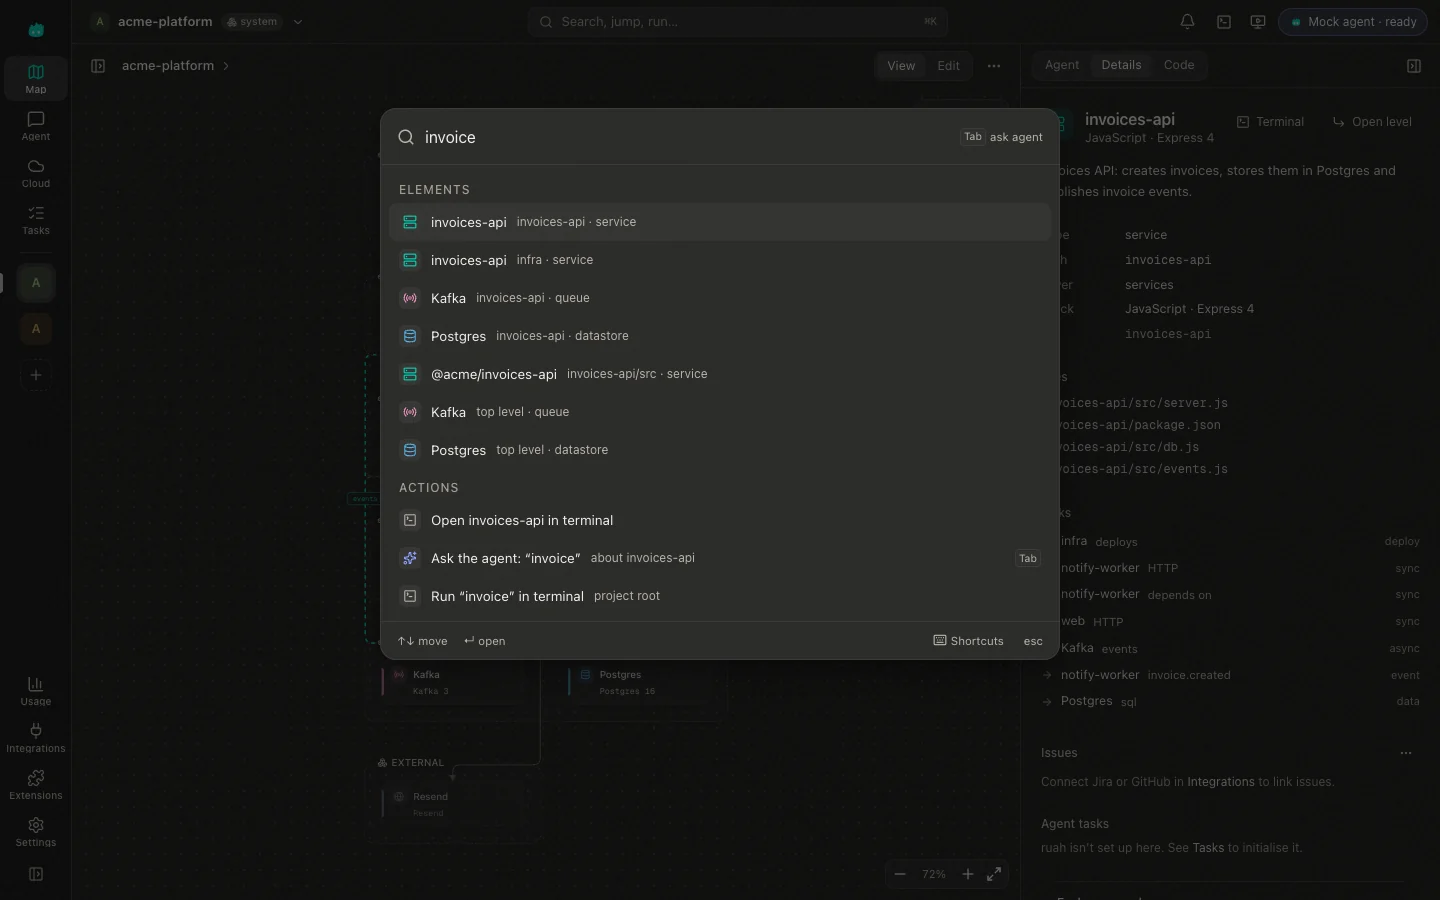
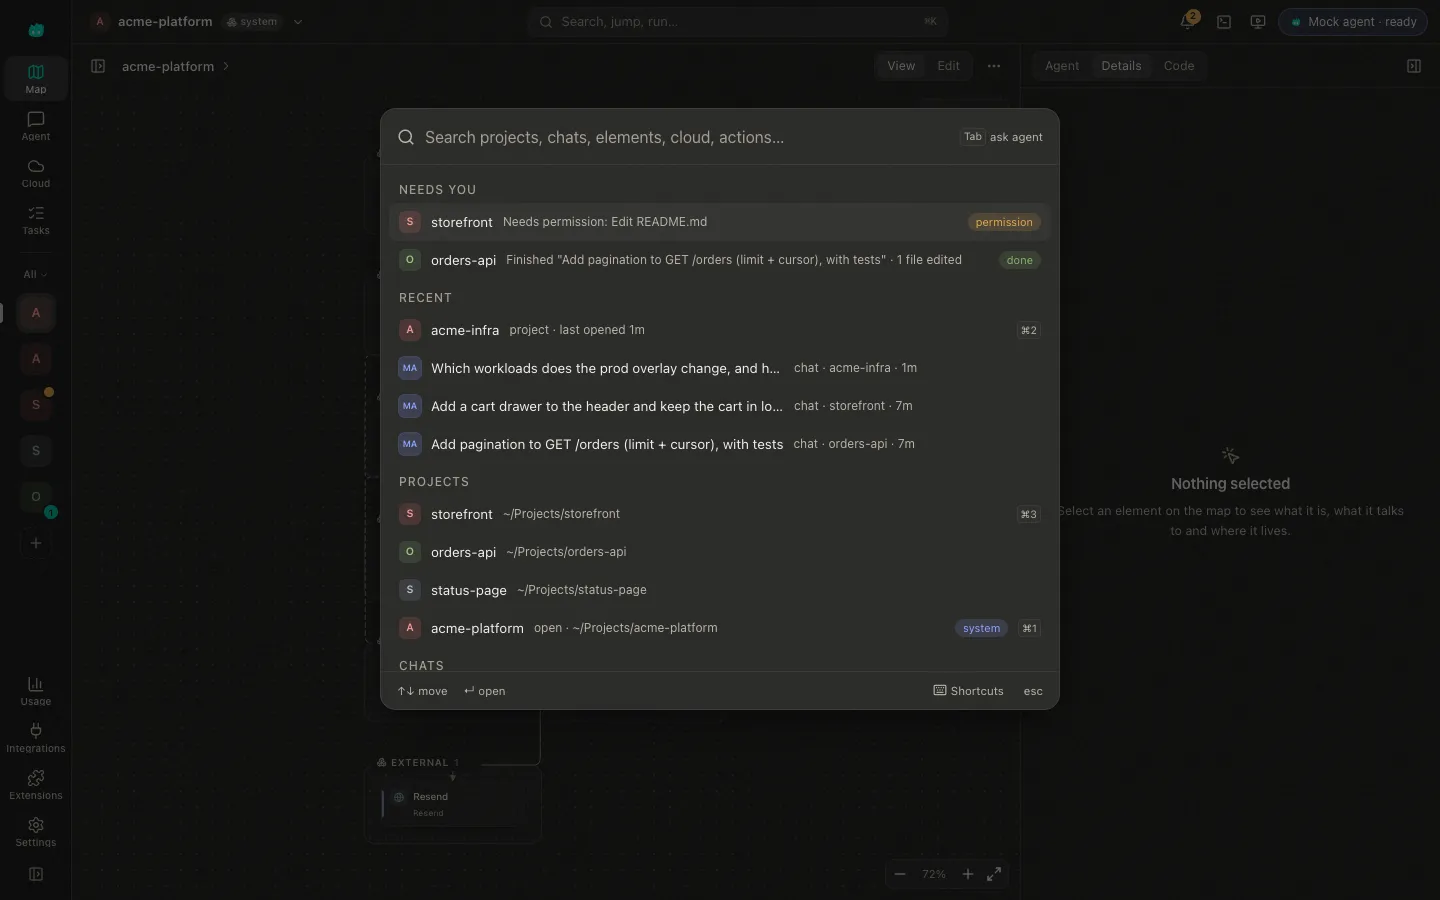
docs(readme): fresh screenshots; claims checked against the code
Six new screenshots (dark, Teal + Indigo, 1440x900 WebP, 38-63 KB):
Home, the map with IaC lanes in the Standard layout, the Advanced
layout, the launcher, usage and limits, and the new project wizard.
They come from a scratch daemon (`serve --mock`) on copies of
test/fixtures/system and test/fixtures/scan/infra-mono plus three
projects made with `ruah app new`, with a scratch HOME and RUAH_HOME
and a fresh headless Chrome profile; the capture refused any frame
whose text or attributes held a local path. The Usage page shows
made-up sample numbers (seeded usage log, a fixed limits report), and
the README says so. The old map, agent and infra-light images go.

Text: Home, the new project wizard and `ruah app new`, pin order and
groups in the features; the Cursor login is opt-in; the preview pick
stays on this Mac unless saved to the repo; Classic teal palette;
Standard / Advanced layouts. CLI table gains `new`, `usage settings`,
`system remove|rename`, `design palettes|tokens|check|css` and the
preview flags; `serve` names where its viewer comes from, and the
build-from-source line runs from the checkout. Configuration is split
into data, settings (`usage.readAppLogins`), environment (adds
RUAH_CLAUDE_USAGE_PROBE, RUAH_EXTENSIONS, RUAH_SUGGEST_TIMEOUT_MS) and
the desktop app, plus a table of what Ruah writes into a repository
(CONTRACTS §21.3). Privacy lists git/gh on request and cursor.com only
after the opt-in.

diff --git a/README.md b/README.md
@@ -12,7 +12,7 @@ that element as context, edit your code, and update the map while you watch.
 It is a local-first macOS app. The daemon runs next to your code with your
 own agent and cloud logins; there is no Ruah server, account or telemetry.
 
-![The map of a multi-repo system, with an element's details](docs/screenshots/map.webp)
+![The map in the Standard layout: services, infrastructure as code and data in lanes; the selected Kubernetes overlay shows what it runs and deploys](docs/screenshots/map-iac.webp)
 
 ## Features
 
@@ -28,37 +28,57 @@ own agent and cloud logins; there is no Ruah server, account or telemetry.
   OpenCode. Switch agent or model instantly (warm agents, no restart), attach
   images, approve edits and commands from permission cards. Agents edit the map
   itself through the `ruah_*` MCP tools.
+- **Home: every project at a glance.** One card per project, sorted by what
+  needs you: a permission to answer (right from the card), a failed turn, cloud
+  trouble, a crashed preview, a turn that finished while you were away,
+  uncommitted or unpushed work. Filter by pinned projects or by group.
+- **New projects in a minute.** `⇧⌘N` (or `ruah app new`) creates a project
+  from an offline template (empty, Vite + React, Node API, static site, pnpm
+  monorepo, Terraform + GitHub Actions) with its map, `git init` and a first
+  commit; on request also a GitHub repository (`gh repo create`, private by
+  default), a place in a multi-repo system and a first prompt for the agent.
+  Nothing existing is ever overwritten.
 - **Several projects at once.** Agents keep working when you switch projects;
   an activity feed, unread badges and notifications tell you when one finishes
-  or needs you. `⌘K` jumps to any project, chat, element, cloud resource or
-  action; `ruah app resume` shows where you left off.
+  or needs you. Pinned projects keep the order you give them (`⌘1`–`⌘9`), and
+  groups (tags) keep clients apart from the day job. `⌘K` jumps to any
+  project, chat, element, cloud resource or action; `ruah app resume` shows
+  where you left off.
 - **Cloud, live.** DigitalOcean, AWS, Google Cloud, Azure, Cloudflare, Vercel,
   Supabase, Kubernetes, Railway, Fly.io, Netlify and Hetzner, read-only through
   their own CLIs: what runs where, which of it belongs to this project and why,
   and whether it is healthy.
 - **Terminal and live preview.** A real terminal on every page; Ruah finds how
   to run the project's dev server, shows the page next to the agent with hot
-  reload, and offers "Ask agent to fix" when it crashes.
+  reload, and offers "Ask agent to fix" when it crashes. The command you pick
+  is remembered on your Mac; it goes into the repo only if you save it there.
 - **Extensions.** Skills, MCP servers, Kiro powers, plugins and rules: add once,
   turn on per agent after seeing what they run; secrets stay in the Keychain.
 - **Issues and tasks.** Jira and GitHub issues on elements; ruah orchestration
-  tasks and workflows.
+  tasks and workflows (in a git repository).
 - **Usage and limits.** Tokens and estimated cost per agent over time, and each
   agent's plan limits (Claude, Cursor, Kiro, Grok, OpenCode) before you hit them.
+  Cursor's plan usage needs the Cursor app's saved login, which Ruah reads only
+  after you allow it.
 - **Export.** draw.io with a page per level, workflows and every technical spec.
-- **Looks.** The Ruah design system: Teal + Indigo by default, Indigo and
-  Sunrise palettes, dark, light and high-contrast themes, the Phantom mascots.
-  A labelled icon rail with a one-row command bar, or the Advanced sidebar
-  layout (`⌘\`).
+- **Looks.** The Ruah design system: Teal + Indigo by default, Indigo, Sunrise
+  and Classic teal palettes, dark, light and high-contrast themes, the Phantom
+  mascots. The Standard layout is a labelled icon rail with project tiles and a
+  one-row command bar; the Advanced layout is a sidebar with your projects and
+  the open project's chats (`⌘\` switches).
 
 | | |
 | --- | --- |
-| ![An agent asking before it edits a file](docs/screenshots/agent.webp) | ![The ⌘K launcher](docs/screenshots/launcher.webp) |
-| Ask about an element; approve the agent's edit (shown with the scripted `--mock` agent). | `⌘K`: elements, projects, chats, cloud resources and actions; Tab asks the agent. |
+| ![Home: five projects sorted by what needs you, one waiting for a permission](docs/screenshots/home.webp) | ![The ⌘K launcher with what needs you, recent chats and projects](docs/screenshots/launcher.webp) |
+| Home: answer a waiting permission, continue a chat, see what is uncommitted. | `⌘K`: projects, chats, elements, cloud resources and actions; Tab asks the agent. |
+| ![The new project wizard, choosing a starting point](docs/screenshots/new-project.webp) | ![Usage and limits cards with sample numbers](docs/screenshots/usage-limits.webp) |
+| `⇧⌘N`: name and location, a starting point, then git, GitHub and agent options. | Usage → Limits per agent, with Cursor's opt-in switch. **Sample numbers**, not a real account. |
 
-![Infrastructure as code on the map, light theme, Advanced layout](docs/screenshots/infra-light.webp)
+![The Advanced layout: projects and chats in the sidebar, a multi-repo map and an element's details](docs/screenshots/advanced.webp)
 
-*Screenshots use the fictional fixture repos in `test/fixtures/`.*
+*Screenshots: the fictional fixture repos in `test/fixtures/` and three
+projects made with `ruah app new`, in a scratch home, with the scripted
+`--mock` agent. The Usage page shows made-up sample data.*
 
 ## Install (macOS, Apple silicon)
 
@@ -106,7 +126,7 @@ pnpm install && (cd ui && bun install)
 pnpm app       # build the daemon and the viewer, open the desktop app
 pnpm dist      # release/Ruah-<version>-arm64.dmg (+ release/mac-arm64/Ruah.app)
 pnpm dist:app  # just the .app, faster
-ruah app serve # or: daemon + viewer in your browser (http://127.0.0.1:4177)
+pnpm ui:build && pnpm cli serve  # or: daemon + viewer in your browser (http://127.0.0.1:4177)
 ```
 
 ## CLI
@@ -119,42 +139,77 @@ every option.
 | Command | What it does |
 | --- | --- |
 | `ruah app [<repo>]` | open the desktop app (on a repo) |
-| `ruah app serve [<repo>]` | daemon + viewer in the browser (`--mock` for the scripted agent, `--agent <id>`) |
+| `ruah app serve [<repo>]` | daemon + viewer in the browser (the viewer from `./viewer` or `--viewer <dir>`; `--mock` for the scripted agent, `--agent <id>`) |
+| `ruah app new <name>` | a new project from a template (`--template <id>`, `--in <dir>`; `--gh private\|public` also creates the GitHub repo; `--templates` lists them) |
 | `ruah app scan <repo>` | write `<repo>/architecture.json` (`--no-infra`: code only; `--dry-run`) |
 | `ruah app infra <repo>` | print the Terraform / k8s / Helm / Ansible / compose / CI it finds; writes nothing |
-| `ruah app system init\|add\|status\|signals\|scan\|suggest …` | multi-repo systems: create, clone and add repos, status per repo, deterministic and agent-suggested cross-repo edges |
+| `ruah app system init\|add\|remove\|rename\|status\|signals\|scan\|suggest …` | multi-repo systems: create, clone and add repos, status per repo, deterministic and agent-suggested cross-repo edges (`rename` is refused while an agent works in the system) |
 | `ruah app export drawio <repo>` | draw.io file with pages per level, workflows and specs |
 | `ruah app cloud providers\|list\|status\|watch` | cloud resources and live health (exit 1 when something is down) |
 | `ruah app cloud scope …` | what belongs to this repo and why; edit `.ruah/cloud.json` |
 | `ruah app resume [<repo>]` · `ruah app activity` | where you left off; what agents did across projects |
-| `ruah app preview [<repo>]` | run the dev server and print its URL (`--detect` shows how) |
+| `ruah app preview [<repo>]` | run the dev server and print its URL (`--detect` shows how; `--remember` keeps the pick on this Mac, `--save-to-repo` writes `.ruah/preview.json`) |
 | `ruah app ext list\|featured\|add\|enable\|disable\|remove` | skills, MCP servers, powers, plugins and rules per agent |
 | `ruah app usage limits` | plan limits per coding agent |
-| `ruah app design check\|tokens` | WCAG contrast of every colour token; tokens per palette and theme |
+| `ruah app usage settings [--read-app-logins on\|off]` | whether Ruah may read the Cursor app's saved login for Cursor's plan usage (off by default; the same switch as in the app) |
+| `ruah app design palettes\|tokens\|check\|css` | palettes and themes, every colour token, WCAG contrast of every pair, the generated stylesheet |
 | `ruah app doctor` | which agents, git and cloud CLIs Ruah finds, and where it keeps data |
 | `ruah app mcp --daemon <url>` | the `ruah_*` map tools as a stdio MCP server |
 
-**Configuration.** `RUAH_HOME` (default `~/.ruah`) holds recent projects,
-chats, usage and settings; `RUAH_AGENT` (claude | cursor | grok | kiro |
-opencode | mock) picks the starting agent; `RUAH_PORT` the desktop app's
-daemon port (`ruah app serve` takes `--port`, default 4177).
-`~/.ruah/settings.json` turns features off: `"backgroundAgents": false`,
-`"notifications": "off"` (or `"always"`; default `"background"`); Settings →
-Features & behaviour does the same in the app. Other switches:
-`RUAH_CLOUD_WATCH=0` (no live cloud re-sync), `RUAH_PREVIEW=0` (no live
-preview), `RUAH_USAGE_READ_LOGINS=0` (do not read the Cursor app's login for
-its usage), `RUAH_MAX_BACKGROUND_TURNS` (default 3), `RUAH_PREVIEW_IDLE_MS`
-(stop a closed project's preview server after this long, default 600000),
-`RUAH_CLOUD_WATCH_MS` (cloud re-sync interval while the Cloud page is open,
-default 45000). For the desktop app: `RUAH_APP_DEV=1` (`ruah app` runs this
-checkout's Electron even with Ruah.app installed), `RUAH_APP_BUNDLE` (which
-Ruah.app `ruah app` opens), `RUAH_USER_DATA` (the Chromium profile; with
-`RUAH_HOME` set it defaults to `$RUAH_HOME/desktop`, logs to `$RUAH_HOME/logs`),
-`RUAH_DEVTOOLS=1` (developer tools in a packaged build), `RUAH_VIEWER` (serve a
-different viewer build). An instance started on a scratch `RUAH_HOME` asks
-before it opens a folder macOS hands it. Files Ruah may write into a project:
-`architecture.json` and `.ruah/` (issue links, cloud scope, preview settings,
-project extensions, system suggestions), made to be shared through git.
+### Configuration
+
+- **Data.** `RUAH_HOME` (default `~/.ruah`) holds recent projects, chats, the
+  usage log, settings and, per project, what belongs to this Mac only
+  (`projects/<id>/`: caches such as verify badges and eval results, the dev
+  server command you picked for the preview).
+- **Settings.** `$RUAH_HOME/settings.json`, the same switches as Settings →
+  Features & behaviour: `"backgroundAgents": false`, `"notifications": "off"`
+  (or `"always"`; default `"background"`), `"usage": { "readAppLogins": true }`
+  (default `false`: let Ruah read the Cursor app's saved login to show Cursor's
+  plan usage; also `ruah app usage settings --read-app-logins on`).
+- **Environment.** `RUAH_AGENT` (claude | cursor | grok | kiro | opencode |
+  acp | mock; unset: the saved default agent) picks the desktop app's starting
+  agent; `RUAH_PORT` the desktop app's daemon port (`ruah app serve` takes
+  `--port`, default 4177). Switches: `RUAH_USAGE_READ_LOGINS=0|1` (overrides the
+  saved choice about the Cursor login for that process, and locks the switch in
+  the app), `RUAH_CLAUDE_USAGE_PROBE=0` (do not start Claude Code briefly to read
+  its plan windows), `RUAH_CLOUD_WATCH=0` (no live cloud re-sync),
+  `RUAH_PREVIEW=0` (no live preview), `RUAH_EXTENSIONS=0` (no extensions),
+  `RUAH_MAX_BACKGROUND_TURNS` (default 3; 0 = none), `RUAH_PREVIEW_IDLE_MS`
+  (stop a closed project's preview server after this long, default 600000),
+  `RUAH_CLOUD_WATCH_MS` (cloud re-sync interval while the Cloud page is open,
+  default 45000), `RUAH_SUGGEST_TIMEOUT_MS` (how long "Suggest connections" may
+  run, default 10 minutes).
+- **Desktop app.** `RUAH_APP_DEV=1` (`ruah app` runs this checkout's Electron
+  even with Ruah.app installed), `RUAH_APP_BUNDLE` (which Ruah.app `ruah app`
+  opens), `RUAH_USER_DATA` (the Chromium profile; with `RUAH_HOME` set it
+  defaults to `$RUAH_HOME/desktop`, logs to `$RUAH_HOME/logs`),
+  `RUAH_DEVTOOLS=1` (developer tools in a packaged build), `RUAH_VIEWER` (serve
+  a different viewer build). An instance started on a scratch `RUAH_HOME` asks
+  before it opens a folder macOS hands it.
+
+### What Ruah writes into your repositories
+
+Only files meant to be committed and shared, and only when you do something
+that asks for them:
+
+| File | Written when |
+| --- | --- |
+| `architecture.json` | a scan: `ruah app scan`, Rescan, or opening a folder that has none (it is the map) |
+| `ruah.system.json` | creating or changing a multi-repo system |
+| `.ruah/cloud.json` | you change the project's cloud scope |
+| `.ruah/links.json` | you link an issue to an element |
+| `.ruah/extensions.json` | you add, enable or edit a project extension |
+| `.ruah/preview.json` | you choose "Save to the repo" for the preview command (off by default) |
+| `.ruah/verify.json` | you sync verify criteria |
+| `.ruah/suggestions.json`, `.ruah/system-scan.json` | a system's suggested connections and scans (in the system folder) |
+
+Whenever it writes into `.ruah/`, Ruah makes sure `.ruah/.gitignore` ignores
+`.cache/`, where earlier builds kept caches (Ruah moves those to
+`$RUAH_HOME` once, and leaves any file git tracks where it is). A new project
+gets the files of its template. An extension's "Also install into" writes that
+tool's own config (`.mcp.json`, `.cursor/…`, `.kiro/…`), recorded so that
+removing the extension undoes exactly those writes.
 
 ## How it is built
 
@@ -178,12 +233,18 @@ why), [`docs/DESIGN-NOTES.md`](docs/DESIGN-NOTES.md),
 
 ## Privacy and security
 
-- Your code, chats, maps and usage stay on your Mac (`~/.ruah`, your repos).
-  Ruah has no server and sends no telemetry. Network traffic comes from the
-  agents you use (to their vendors), the cloud and issue CLIs installed on your
-  Mac (Ruah asks them read-only questions: are you logged in, what runs where),
-  Jira if you connect it, and Cursor's usage page for its limits
-  (`RUAH_USAGE_READ_LOGINS=0` turns that off).
+- Your code, chats, maps and usage stay on your Mac (`$RUAH_HOME`, default
+  `~/.ruah`, and your repos). Ruah has no server and sends no telemetry.
+  Network traffic comes from the agents you use (to their vendors), the cloud
+  and issue CLIs installed on your Mac (Ruah asks them read-only questions: are
+  you logged in, what runs where), git and `gh` when you ask for them (cloning
+  a repo into a system, creating a GitHub repository for a new project, adding
+  an extension from a git URL), Jira if you connect it, and cursor.com for
+  Cursor's plan usage — only after you allow Ruah to read the Cursor app's
+  saved login (off by default; the token stays in memory and is never stored).
+- Ruah writes into your repositories only the files listed
+  [above](#what-ruah-writes-into-your-repositories), only when you act, and
+  keeps its caches in `$RUAH_HOME`.
 - The daemon listens on loopback only and rejects requests from other origins
   and rebound host names. Agents run with your permissions but never with
   "approve everything" flags unless you choose such a mode. Cloud access is
